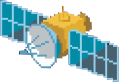
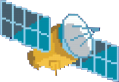
All cards added to planetary system - no pages linked

diff --git a/src/styles/home.css b/src/styles/home.css
@@ -48,7 +48,7 @@ body {
 }
 
 .planet-image {
-  width: 280px;
+  width: 240px;
 
   filter:
     drop-shadow(0 0 25px rgba(255,255,255,.4));
@@ -137,30 +137,24 @@ body {
 .cv {
   top: 50%;
   right: 10%;
-
   transform: translateY(-50%);
 }
 
-.about {
-  top: 10%;
-  left: 10%;
-}
+
 
 /*Satélite contacto*/
-
 
 .satellite-card {
   position: absolute;
 
-  top: 15%;
+  top: 10%;
   right: 20%;
-
-
-
   display: flex;
   align-items: center;
   justify-content: center;
+  flex-direction: column;
 }
+
 .satellite-image {
   width: 90px;
 
@@ -176,8 +170,7 @@ body {
 }
 
 .satellite-label {
-    margin-top: 2rem;
-
+    
     color: #ffd54a;
 
     font-size: 0.65rem;
@@ -192,7 +185,6 @@ body {
 
 .satellite-card:hover {
   filter: brightness(1.1);
-
 
 }
 
@@ -209,4 +201,65 @@ body {
   100% {
     transform: translateY(0px);
   }
+}
+
+
+/*Earth about*/
+
+.earth-card {
+  position: absolute;
+
+  top: 7%;
+  left: 40%;
+  display: flex;
+  align-items: center;
+  justify-content: center;
+  flex-direction: column;
+}
+
+.earth-image {
+  width: 60px;
+
+  filter:
+    drop-shadow(0 0 25px rgba(255,255,255,.4));
+  animation: float 9s ease-in-out infinite;
+ 
+  cursor: pointer;
+
+  overflow: hidden;
+}
+
+.earth-card:hover {
+  filter: brightness(1.1);
+
+}
+
+/*Jupiter CV Card*/
+
+.jupiter-card {
+  position: absolute;
+
+  top: 55%;
+  left: 90%;
+  display: flex;
+  align-items: center;
+  justify-content: center;
+  flex-direction: column;
+}
+
+.jupiter-image {
+  width: 60px;
+
+  filter:
+    drop-shadow(0 0 25px rgba(255,255,255,.4));
+  animation: float 9s ease-in-out infinite;
+ 
+  cursor: pointer;
+
+  overflow: hidden;
+}
+
+.jupiter-card:hover {
+  filter: brightness(1.1);
+
 }

diff --git a/src/pages/Home.js b/src/pages/Home.js
@@ -2,9 +2,11 @@ import '../styles/home.css'
 
 import SpaceBackground from '../components/SpaceBackground'
 import StarsLayer from '../components/StarsLayer'
-import PlanetCard from '../components/PlanetCard'
+import PlanetProjectsCard from '../components/PlanetProjectsCard'
 import OrbitItem from '../components/OrbitItem'
-import SatelliteCard from '../components/SatelliteCard'
+import SatelliteContactCard from '../components/SatelliteContactCard'
+import EarthAboutCard from '../components/EarthAboutCard'
+import JupiterCVCard from '../components/JupiterCVCard'
 
 export default function Home() {
   return (
@@ -16,26 +18,22 @@ export default function Home() {
 
             
         <div className="planet-card">
-            <PlanetCard />
+            <PlanetProjectsCard />
         </div>
 
         <div className="satellite-card">
-            <SatelliteCard/> 
+            <SatelliteContactCard/> 
         </div>
 
-        <div className="orbit-container">
-            <OrbitItem
-                label="CV"
-                className="cv"
-            />
-
-            <OrbitItem
-                label="ABOUT"
-                className="about"
-            />
-
+        <div className="earth-card">
+            <EarthAboutCard/>
         </div>
 
+        <div className="jupiter-card">
+            <JupiterCVCard/>
+        </div>
+
+    
      
     </main>
   )

diff --git a/src/components/EarthAboutCard.jsx b/src/components/EarthAboutCard.jsx
@@ -1,0 +1,21 @@
+import tierraPixel from '../assets/tierraPixel.png'
+import '../styles/home.css'
+
+
+export default function EarthCard() {
+  return (
+    <div className="earth-card">
+
+      <img
+        src={tierraPixel}
+        alt="earth"
+        className="earth-image"
+      />
+
+      <h1 className="satellite-label">
+        ABOUT
+      </h1>
+
+    </div>
+  )
+}

diff --git a/src/components/JupiterCVCard.jsx b/src/components/JupiterCVCard.jsx
@@ -1,0 +1,21 @@
+import jupiterPixel from '../assets/jupiterPixel.png'
+import '../styles/home.css'
+
+
+export default function JupiterCVCard() {
+  return (
+    <div className="jupiter-card">
+
+      <img
+        src={jupiterPixel}
+        alt="jupiter-cv"
+        className="jupiter-image"
+      />
+
+      <h1 className="satellite-label">
+        CV
+      </h1>
+
+    </div>
+  )
+}